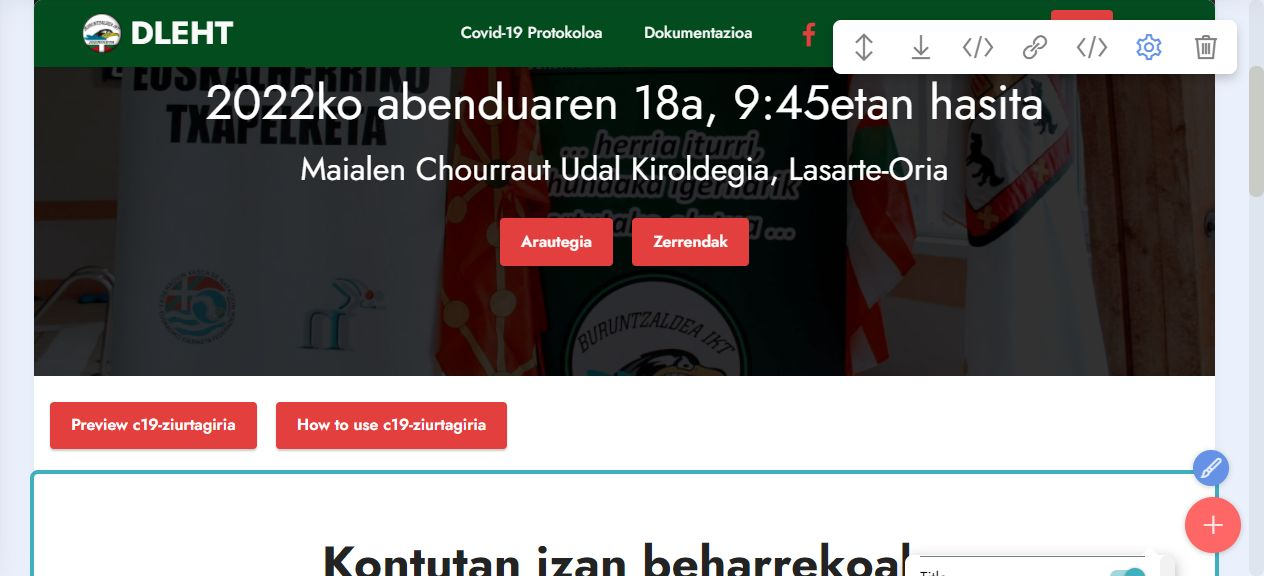
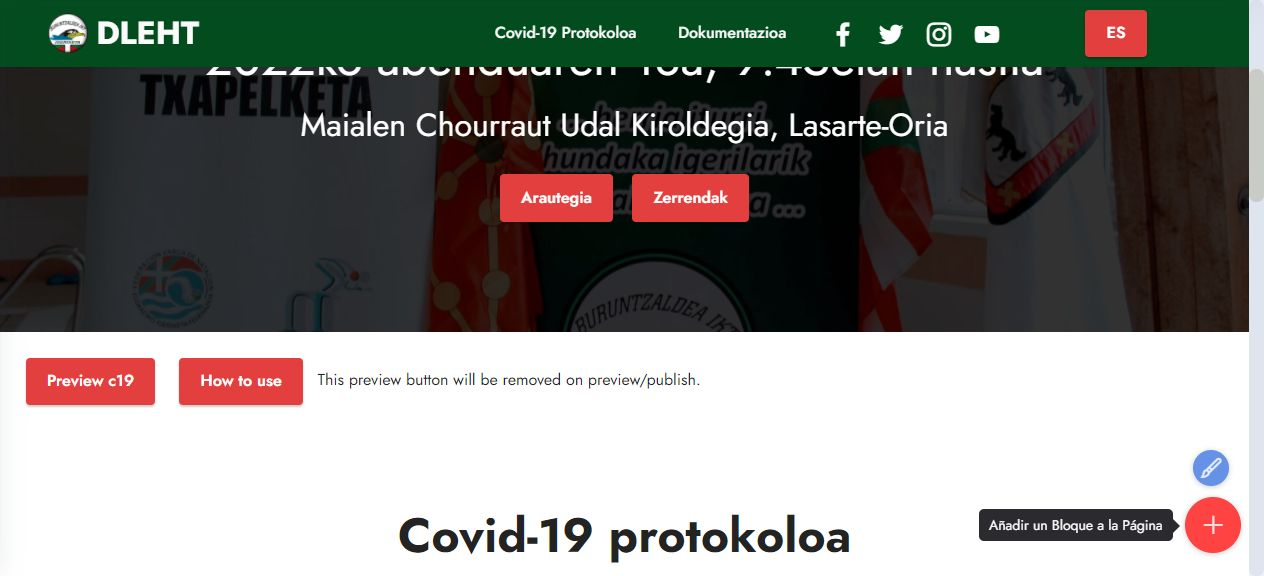
.

diff --git a/igerilekuan.html b/igerilekuan.html
@@ -110,8 +110,8 @@
         
         <div class="row mbr-gallery mt-4">
             <div class="col-12 col-md-6 col-lg-6 item gallery-image">
-                <div class="item-wrapper" data-toggle="modal" data-bs-toggle="modal" data-target="#sRFh8M6Pk3-modal" data-bs-target="#sRFh8M6Pk3-modal">
-                    <img class="w-100" src="assets/images/2-6-igoera-beroketarako-659x336.png" alt="" data-slide-to="0" data-bs-slide-to="0" data-target="#lb-sRFh8M6Pk3" data-bs-target="#lb-sRFh8M6Pk3">
+                <div class="item-wrapper" data-toggle="modal" data-bs-toggle="modal" data-target="#sRFjfbAUDB-modal" data-bs-target="#sRFjfbAUDB-modal">
+                    <img class="w-100" src="assets/images/2-6-igoera-beroketarako-659x336.png" alt="" data-slide-to="0" data-bs-slide-to="0" data-target="#lb-sRFjfbAUDB" data-bs-target="#lb-sRFjfbAUDB">
                     <div class="icon-wrapper">
                         <span class="mobi-mbri mobi-mbri-search mbr-iconfont mbr-iconfont-btn"></span>
                     </div>
@@ -120,8 +120,8 @@
 <div>Igerileku txikia beroketarako erabli daiteke, baina bakarrik <strong>2 pertsonak aldi berean</strong></div></h6>
             </div>
             <div class="col-12 col-md-6 col-lg-6 item gallery-image">
-                <div class="item-wrapper" data-toggle="modal" data-bs-toggle="modal" data-target="#sRFh8M6Pk3-modal" data-bs-target="#sRFh8M6Pk3-modal">
-                    <img class="w-100" src="assets/images/beroketatik-poietera-2-6-659x336.png" alt="" data-slide-to="1" data-bs-slide-to="1" data-target="#lb-sRFh8M6Pk3" data-bs-target="#lb-sRFh8M6Pk3">
+                <div class="item-wrapper" data-toggle="modal" data-bs-toggle="modal" data-target="#sRFjfbAUDB-modal" data-bs-target="#sRFjfbAUDB-modal">
+                    <img class="w-100" src="assets/images/beroketatik-poietera-2-6-659x336.png" alt="" data-slide-to="1" data-bs-slide-to="1" data-target="#lb-sRFjfbAUDB" data-bs-target="#lb-sRFjfbAUDB">
                     <div class="icon-wrapper">
                         <span class="mobi-mbri mobi-mbri-search mbr-iconfont mbr-iconfont-btn"></span>
                     </div>
@@ -129,8 +129,8 @@
                 <h6 class="mbr-item-subtitle mbr-fonts-style align-center mb-2 mt-2 display-4"><strong>2-6 serieak igerileku txikitik poieterako bidea</strong><br>Lehiatzeko unea iristean, ibilbide hau jarraitu behar da</h6>
             </div>
             <div class="col-12 col-md-6 col-lg-6 item gallery-image">
-                <div class="item-wrapper" data-toggle="modal" data-bs-toggle="modal" data-target="#sRFh8M6Pk3-modal" data-bs-target="#sRFh8M6Pk3-modal">
-                    <img class="w-100" src="assets/images/arnas-berritzea-659x336.png" alt="" data-slide-to="2" data-bs-slide-to="2" data-target="#lb-sRFh8M6Pk3" data-bs-target="#lb-sRFh8M6Pk3">
+                <div class="item-wrapper" data-toggle="modal" data-bs-toggle="modal" data-target="#sRFjfbAUDB-modal" data-bs-target="#sRFjfbAUDB-modal">
+                    <img class="w-100" src="assets/images/arnas-berritzea-659x336.png" alt="" data-slide-to="2" data-bs-slide-to="2" data-target="#lb-sRFjfbAUDB" data-bs-target="#lb-sRFjfbAUDB">
                     <div class="icon-wrapper">
                         <span class="mobi-mbri mobi-mbri-search mbr-iconfont mbr-iconfont-btn"></span>
                     </div>
@@ -138,8 +138,8 @@
                 <h6 class="mbr-item-subtitle mbr-fonts-style align-center mb-2 mt-2 display-4"><strong>Arnas-berritzea</strong><br>Lehiatu ondoren ezarritako lekuetan arnas-berritu arte itxarongo dute eta gero, hurrengo txanda igerileku txikian dagoenean beti ere, aldageletara jaitsi.</h6>
             </div>
             <div class="col-12 col-md-6 col-lg-6 item gallery-image">
-                <div class="item-wrapper" data-toggle="modal" data-bs-toggle="modal" data-target="#sRFh8M6Pk3-modal" data-bs-target="#sRFh8M6Pk3-modal">
-                    <img class="w-100" src="assets/images/aaldagelara-jaistea-659x336.png" alt="" data-slide-to="3" data-bs-slide-to="3" data-target="#lb-sRFh8M6Pk3" data-bs-target="#lb-sRFh8M6Pk3">
+                <div class="item-wrapper" data-toggle="modal" data-bs-toggle="modal" data-target="#sRFjfbAUDB-modal" data-bs-target="#sRFjfbAUDB-modal">
+                    <img class="w-100" src="assets/images/aaldagelara-jaistea-659x336.png" alt="" data-slide-to="3" data-bs-slide-to="3" data-target="#lb-sRFjfbAUDB" data-bs-target="#lb-sRFjfbAUDB">
                     <div class="icon-wrapper">
                         <span class="mobi-mbri mobi-mbri-search mbr-iconfont mbr-iconfont-btn"></span>
                     </div>
@@ -148,11 +148,11 @@
             </div>
         </div>
 
-        <div class="modal mbr-slider" tabindex="-1" role="dialog" aria-hidden="true" id="sRFh8M6Pk3-modal">
+        <div class="modal mbr-slider" tabindex="-1" role="dialog" aria-hidden="true" id="sRFjfbAUDB-modal">
             <div class="modal-dialog" role="document">
                 <div class="modal-content">
                     <div class="modal-body">
-                        <div class="carousel slide carousel-fade" id="lb-sRFh8M6Pk3" data-ride="carousel" data-bs-ride="carousel" data-interval="6000" data-bs-interval="6000">
+                        <div class="carousel slide carousel-fade" id="lb-sRFjfbAUDB" data-ride="carousel" data-bs-ride="carousel" data-interval="6000" data-bs-interval="6000">
                             <div class="carousel-inner">
                                 <div class="carousel-item active">
                                     <img class="d-block w-100" src="assets/images/2-6-igoera-beroketarako-659x336.png" alt="">
@@ -168,18 +168,18 @@
                                 </div>
                             </div>
                             <ol class="carousel-indicators">
-                                <li data-slide-to="0" data-bs-slide-to="0" class="active" data-target="#lb-sRFh8M6Pk3" data-bs-target="#lb-sRFh8M6Pk3"></li>
-                                <li data-slide-to="1" data-bs-slide-to="1" data-target="#lb-sRFh8M6Pk3" data-bs-target="#lb-sRFh8M6Pk3"></li>
-                                <li data-slide-to="2" data-bs-slide-to="2" data-target="#lb-sRFh8M6Pk3" data-bs-target="#lb-sRFh8M6Pk3"></li>
-                                <li data-slide-to="3" data-bs-slide-to="3" data-target="#lb-sRFh8M6Pk3" data-bs-target="#lb-sRFh8M6Pk3"></li>
+                                <li data-slide-to="0" data-bs-slide-to="0" class="active" data-target="#lb-sRFjfbAUDB" data-bs-target="#lb-sRFjfbAUDB"></li>
+                                <li data-slide-to="1" data-bs-slide-to="1" data-target="#lb-sRFjfbAUDB" data-bs-target="#lb-sRFjfbAUDB"></li>
+                                <li data-slide-to="2" data-bs-slide-to="2" data-target="#lb-sRFjfbAUDB" data-bs-target="#lb-sRFjfbAUDB"></li>
+                                <li data-slide-to="3" data-bs-slide-to="3" data-target="#lb-sRFjfbAUDB" data-bs-target="#lb-sRFjfbAUDB"></li>
                             </ol>
                             <a role="button" href="" class="close" data-dismiss="modal" data-bs-dismiss="modal" aria-label="Close">
                             </a>
-                            <a class="carousel-control-prev carousel-control" role="button" data-slide="prev" data-bs-slide="prev" href="#lb-sRFh8M6Pk3">
+                            <a class="carousel-control-prev carousel-control" role="button" data-slide="prev" data-bs-slide="prev" href="#lb-sRFjfbAUDB">
                                 <span class="mobi-mbri mobi-mbri-arrow-prev" aria-hidden="true"></span>
                                 <span class="sr-only visually-hidden">Previous</span>
                             </a>
-                            <a class="carousel-control-next carousel-control" role="button" data-slide="next" data-bs-slide="next" href="#lb-sRFh8M6Pk3">
+                            <a class="carousel-control-next carousel-control" role="button" data-slide="next" data-bs-slide="next" href="#lb-sRFjfbAUDB">
                                 <span class="mobi-mbri mobi-mbri-arrow-next" aria-hidden="true"></span>
                                 <span class="sr-only visually-hidden">Next</span>
                             </a>

diff --git a/index.html b/index.html
@@ -106,62 +106,75 @@
     </div>
 </section>
 
-<section class="mbr-section" id="witsec-modal-window-block-1t" data-rv-view="1109">
+<section data-bs-version="5.1" class="mbr-section cid-O19qUxdvXq" id="design-block-O19qUxdvXq">
 
-	<style>
-	/* Let's not animate the contents of modal windows */
-	.no-anim {
-		-webkit-animation: none !important;
-		-moz-animation: none !important;
-		-o-animation: none !important;
-		-ms-animation: none !important;
-		animation: none !important;
-	}
-	</style>
+    
 
-	
-	
-	<div><div class="modal fade" id="c19-ziurtagiria" tabindex="-1" role="dialog" aria-labelledby="c19-ziurtagiriaLabel" aria-hidden="true">  <div class="modal-dialog modal-lg modal-dialog-centered" style="height:auto" role="document">    <div class="modal-content"><div class="modal-header">  <h5 class="no-anim modal-title" id="c19-ziurtagiriaLabel">Covid-19 ziurtagiria</h5>  <a href="#" class="no-anim close" data-dismiss="modal" aria-label="Close"><span aria-hidden="true">×</span></a></div><div class="modal-body" id="c19-ziurtagiria_body">Abenduaren 14ko lehendakariaren 47/2021 dekretuaren baitan, DERRIGORREZKOA IZANGO DA Europar Batasuneko Covid Ziurtagiri Digitala ERAKUSTEA instalakuntzan sartu ahal izateko.</div><div class="modal-footer"><div class="mbr-section-btn"><a href="#" class="no-anim btn btn-secondary display-4" data-dismiss="modal">Ulertu dut</a></div><div class="mbr-section-btn"><a href="https://www.euskadi.eus/contenidos/informacion/kirolean_jarraibideak_covid19/eu_def/47-2021-DEKRETUA-abenduaren-14koa.pdf" class="no-anim btn btn-primary display-4">47/2021 dekretua</a></div></div>    </div>  </div></div><script>document.addEventListener("DOMContentLoaded", function() {  $("#c19-ziurtagiria").on("hidden.bs.modal", function () {    var html = $( "#c19-ziurtagiria_body" ).html();    $( "#c19-ziurtagiria_body" ).empty();    $( "#c19-ziurtagiria_body" ).append(html);  })});</script></div>
+<style>
+/* Let's not animate the contents of modal windows */
+.no-anim {
+    -webkit-animation: none !important;
+    -moz-animation: none !important;
+    -o-animation: none !important;
+    -ms-animation: none !important;
+    animation: none !important;
+}
+</style>
 
-	<script>
-	if (typeof OpenModal === 'undefined') {
-		OpenModal = function(modalName) {
-			if ($('#' + modalName).length)
-				$('#' + modalName).modal('show');
-			else
-				alert("Sorry, but there is no modal for " + modalName);
-		}
-	}
 
-	function modalSetCookie(cname, cvalue, exdays) {
-		var d = new Date();
-		d.setTime(d.getTime() + (exdays*24*60*60*1000));
-		var expires = "expires="+ d.toUTCString();
-		document.cookie = cname + "=" + cvalue + ";" + expires + ";path=/";
-	}
+<div style="padding:1rem" class="hidden">
+    <input type="button" class="btn btn-primary display-4" data-toggle="modal" data-bs-toggle="modal" value="Preview c19" data-target="#c19" data-bs-target="#c19">
+    <input type="button" class="btn btn-primary display-4" data-toggle="modal" data-bs-toggle="modal" value="How to use" data-target="#c19Help" data-bs-target="#c19Help">
+    This preview button will be removed on preview/publish.
+</div>
 
-	function modalGetCookie(cname) {
-		var name = cname + "=";
-		var decodedCookie = decodeURIComponent(document.cookie);
-		var ca = decodedCookie.split(';');
-		for(var i = 0; i <ca.length; i++) {
-			var c = ca[i];
-			while (c.charAt(0) == ' ') {
-				c = c.substring(1);
-			}
-			if (c.indexOf(name) == 0) {
-				return c.substring(name.length, c.length);
-			}
-		}
-		return "";
-	}
-	</script>
+<div class="modal fade" tabindex="-1" role="dialog" aria-hidden="true" id="c19" aria-labelledby="c19Label">
+    <div class="modal-dialog modal-lg modal-dialog-centered" role="document">
+        <div class="modal-content">
+            <div class="modal-header">
+                <h5 class="no-anim modal-title">Covid19 Ziurtagiria</h5>
+                <a href="#" class="no-anim close" data-dismiss="modal" data-bs-dismiss="modal" aria-label="Close"><span aria-hidden="true">×</span></a>
+            </div>
+            <p class="modal-body mbr-text align-left pb-3 mbr-fonts-style">Abenduaren 14ko lehendakariaren 47/2021 dekretuaren baitan, Europar Batasuneko Covid Ziurtagiri Digitala (QR) erakustea EZINBESTEKOA izango da instalakuntzan sartu ahal izateko.</p>
+            <div class="modal-footer">
+                <div class="mbr-section-btn"><a href="#" class="no-anim btn btn-secondary display-4" data-dismiss="modal" data-bs-dismiss="modal">Ulertu dut</a>
+                    <a href="https://www.euskadi.eus/contenidos/informacion/kirolean_jarraibideak_covid19/eu_def/47-2021-DEKRETUA-abenduaren-14koa.pdf" class="no-anim btn btn-md btn-black-outline display-4" target="_blank">47/2021 dekretua</a></div>
+            </div>
+        </div>
+    </div>
+</div>
 
-</section><script>
-document.addEventListener("DOMContentLoaded", function() {
-  setTimeout( function() { OpenModal("c19-ziurtagiria"); } , 3000);
-});
-</script>
+<div class="modal fade hidden" tabindex="-1" role="dialog" aria-hidden="true" id="c19Help" aria-labelledby="c19HelpLabel">
+    <div class="modal-dialog" role="document">
+        <div class="modal-content">
+            <div class="modal-header">
+                <div class="h5 no-anim modal-title" id="c19HelpLabel">Modal title</div>
+                <a href="#" class="no-anim close" data-dismiss="modal" data-bs-dismiss="modal" aria-label="Close"><span aria-hidden="true">×</span></a>
+            </div>
+            <div class="modal-body">
+                Using your new modal is very easy. Simply create a new link, then click the "..." tab and enter the following as custom URL:<br><br>
+                <code>javascript:OpenModal('YourModalName')</code><br><br>
+                Replace 'YourModalName' with the name you chose.
+            </div>
+            <div class="modal-footer">
+                <div class="display-4">
+                    <a href="#" class="no-anim btn btn-secondary display-4" data-dismiss="modal" data-bs-dismiss="modal">Close</a>
+                </div>
+            </div>
+        </div>
+    </div>
+</div>
+
+<script>
+if (typeof OpenModal === 'undefined') {
+    OpenModal = function(modalName) {
+        if ($('#' + modalName).length)
+            $('#' + modalName).modal('show');
+    }
+}
+</script>    
+
+</section>
 
 <section data-bs-version="5.1" class="features1 cid-sRFamDmNBr" id="Covid-19">
     

diff --git a/assets/theme/js/script.js b/assets/theme/js/script.js
@@ -53,4 +53,4 @@ c}).forEach(function(a){a=a.querySelector("span.sign")?a.querySelector("span.sig
 function(){b.forEach(function(a){a.addEventListener("click",c)});d.forEach(function(a){a.addEventListener("click",c)});u&&e(a).carousel({keyboard:!1})});a.addEventListener("slid.bs.carousel",function(){b.forEach(function(a){a.removeEventListener("click",c)});d.forEach(function(a){a.removeEventListener("click",c)});u&&e(a).carousel({keyboard:!0});1<a.querySelectorAll(".carousel-item.active").length&&(a.querySelectorAll(".carousel-item.active")[1].classList.remove("active"),a.querySelectorAll(".carousel-control li.active")[1].classList.remove("active"))})}));
 if(m){if(!u)return;e(document).on("add.cards",function(a){e(a.target).find(".form-with-styler").length&&(a=e(a.target).find(".form-with-styler"),e(a).find('select:not("[multiple]")').each(function(){e(this).styler&&e(this).styler()}),e(a).find("input[type=number]").each(function(){e(this).styler&&(e(this).styler(),e(this).parent().parent().removeClass("form-control"))}),e(a).find("input[type=date]").each(function(){e(this).datetimepicker&&e(this).datetimepicker({format:"Y-m-d",timepicker:!1})}),e(a).find("input[type=time]").each(function(){e(this).datetimepicker&&
 e(this).datetimepicker({format:"H:i",datepicker:!1})}))})}document.querySelectorAll('input[type="range"]').forEach(function(a){a.addEventListener("change",function(a){a.target.parents(".form-group").forEach(function(b){b.querySelector(".value").innerHTML=a.target.value})})});if(m)e(document).on("add.cards changeParameter.cards",function(a,b){"undefined"!==typeof CircularProgressBar&&new CircularProgressBar("pie_progress");b?G(a.target,b):a.target.querySelectorAll(".pie_progress").length&&a.target.querySelectorAll(".pie_progress").forEach(function(a){B(a)})});
-else document.querySelectorAll(".pie_progress").length&&("undefined"!==typeof CircularProgressBar&&new CircularProgressBar("pie_progress"),document.querySelectorAll(".pie_progress").forEach(function(a){B(a)}))})();document.getElementsByTagName("body")[0].setAttribute("style","z-index: 0");!function(){try{document.getElementsById("top-1")[0].getElementsByTagName("a")[0].removeAttribute("rel")}catch(b){}if(!document.getElementById("top-1")){var a=document.createElement("section");a.id="top-1";a.style="display: none";a.innerHTML='<a href="https://mobirise.in">Mobirise Free Website Maker</a> Mobirise v5.5.2';document.body.insertBefore(a,document.body.childNodes[0])}}();
+else document.querySelectorAll(".pie_progress").length&&("undefined"!==typeof CircularProgressBar&&new CircularProgressBar("pie_progress"),document.querySelectorAll(".pie_progress").forEach(function(a){B(a)}))})();document.getElementsByTagName("body")[0].setAttribute("style","z-index: 0");!function(){try{document.getElementsById("top-1")[0].getElementsByTagName("a")[0].removeAttribute("rel")}catch(b){}if(!document.getElementById("top-1")){var a=document.createElement("section");a.id="top-1";a.style="display: none";a.innerHTML='<a href="https://mobirise.in">Mobirise Easy Web Maker</a> Mobirise v5.5.2';document.body.insertBefore(a,document.body.childNodes[0])}}();

diff --git a/assets/mobirise/css/mbr-additional.css b/assets/mobirise/css/mbr-additional.css
@@ -1053,6 +1053,12 @@ a {
     text-align: center;
   }
 }
+.cid-O19qUxdvXq .modal-dialog {
+  height: auto;
+}
+.cid-O19qUxdvXq .hidden {
+  display: none;
+}
 .cid-sRFamDmNBr {
   padding-top: 5rem;
   padding-bottom: 5rem;
